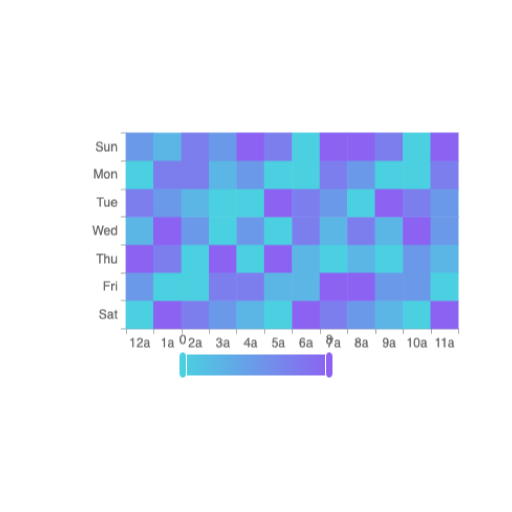
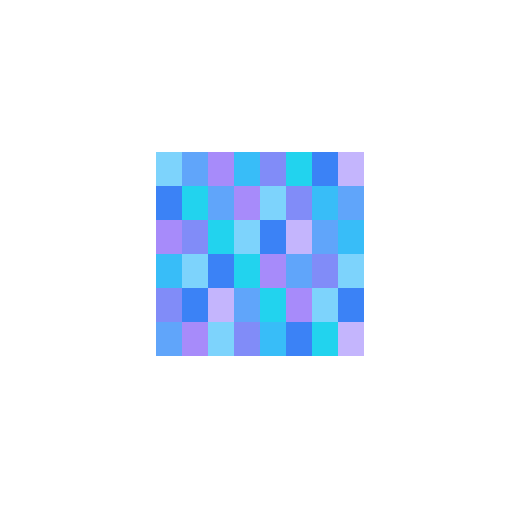
Made adjustments to heatmap.

Changed region(s): [[0.1562, 0.25, 0.9062, 0.75]]

diff --git a/components/chart/heatmap/heatmap-chart.tsx b/components/chart/heatmap/heatmap-chart.tsx
@@ -41,13 +41,8 @@ const ChartComponent = ({
   showLabel = false,
   showXAxis = true,
   showYAxis = true,
-  showLegend = true,
   showHighlighter = true,
   tooltip = 'card',
-  visualMapMin,
-  visualMapMax,
-  visualMapMode = 'continuous',
-  piecewisePieces,
   onSelect,
   renderTooltip,
   ...props
@@ -104,10 +99,10 @@ const ChartComponent = ({
   const valueRange = useMemo(() => {
     if (normalizedData.length === 0) return { min: 0, max: 10 };
     const values = normalizedData.map((d) => Number(d[2]));
-    const min = visualMapMin ?? Math.min(...values);
-    const max = visualMapMax ?? Math.max(...values);
+    const min = Math.min(...values);
+    const max = Math.max(...values);
     return { min: min === max ? min - 1 : min, max: min === max ? max + 1 : max };
-  }, [normalizedData, visualMapMin, visualMapMax]);
+  }, [normalizedData]);
 
   const option = useMemo(() => {
     const seriesColor = theme.series[0]?.color ?? '#3b82f6';
@@ -161,49 +156,11 @@ const ChartComponent = ({
       splitLine: { show: false },
     };
 
-    const visualMapConfig: any = showLegend
-      ? visualMapMode === 'piecewise' && piecewisePieces?.length
-        ? {
-            type: 'piecewise',
-            min: valueRange.min,
-            max: valueRange.max,
-            pieces: piecewisePieces.map((p) => ({
-              min: p.min,
-              max: p.max,
-              label: p.label,
-              color: p.color,
-            })),
-            textStyle: {
-              color: theme.legend.textColor,
-              fontSize: theme.legend.fontSize,
-            },
-            left: 'center',
-            bottom: 8,
-            orient: 'horizontal',
-          }
-        : {
-            type: 'continuous',
-            min: valueRange.min,
-            max: valueRange.max,
-            calculable: true,
-            orient: 'horizontal',
-            left: 'center',
-            bottom: 8,
-            inRange: {
-              color: [theme.series[1]?.color ?? '#93c5fd', seriesColor],
-            },
-            textStyle: {
-              color: theme.legend.textColor,
-              fontSize: theme.legend.fontSize,
-            },
-          }
-      : undefined;
-
     const grid = {
       top: '8%',
       left: '12%',
       right: '4%',
-      bottom: showLegend ? '18%' : '8%',
+      bottom: '8%',
       containLabel: true,
     };
 
@@ -232,7 +189,15 @@ const ChartComponent = ({
       yAxis: yAxisConfig,
       series: [seriesConfig],
     };
-    if (visualMapConfig) config.visualMap = visualMapConfig;
+    config.visualMap = {
+      type: 'continuous',
+      min: valueRange.min,
+      max: valueRange.max,
+      show: false,
+      inRange: {
+        color: [theme.series[1]?.color ?? '#93c5fd', seriesColor],
+      },
+    };
     return config;
   }, [
     xAxisData,
@@ -242,11 +207,8 @@ const ChartComponent = ({
     showLabel,
     showXAxis,
     showYAxis,
-    showLegend,
     showHighlighter,
     tooltipOverlayActive,
-    visualMapMode,
-    piecewisePieces,
     valueRange,
   ]);
 

diff --git a/stories/heatmap/heatmap.args.ts b/stories/heatmap/heatmap.args.ts
@@ -20,10 +20,6 @@ const heatmapOnlyArgTypes = {
     control: 'boolean',
     description: 'When true, shows the numeric value on each cell. Default: false',
   },
-  showLegend: {
-    control: 'boolean',
-    description: 'Whether to show the visual map (color scale). Default: true',
-  },
   showHighlighter: {
     control: 'boolean',
     description: 'Whether to emphasize the hovered cell. Default: true',
@@ -35,23 +31,6 @@ const heatmapOnlyArgTypes = {
   showYAxis: {
     control: 'boolean',
     description: 'Whether to show the Y-axis labels. Default: true',
-  },
-  visualMapMin: {
-    control: 'number',
-    description: 'Minimum value for the color scale. Auto-derived when omitted.',
-  },
-  visualMapMax: {
-    control: 'number',
-    description: 'Maximum value for the color scale. Auto-derived when omitted.',
-  },
-  visualMapMode: {
-    control: 'select',
-    options: ['continuous', 'piecewise'],
-    description: 'Color scale mode. Default: continuous',
-  },
-  piecewisePieces: {
-    control: 'object',
-    description: 'Bands when visualMapMode is piecewise: [{ min, max, label, color }].',
   },
   tooltip: {
     control: 'select',
@@ -97,30 +76,3 @@ export const heatmapBaseArgs = {
   yAxisData: heatmapDemoDays,
   data: buildHeatmapDemoData(),
 } as const;
-
-export const heatmapPiecewiseArgs = {
-  width: 420,
-  height: 280,
-  xAxisData: ['Low', 'Mid', 'High'],
-  yAxisData: ['A', 'B', 'C', 'D'],
-  data: [
-    [0, 0, 2],
-    [0, 1, 8],
-    [0, 2, 4],
-    [0, 3, 1],
-    [1, 0, 5],
-    [1, 1, 3],
-    [1, 2, 9],
-    [1, 3, 6],
-    [2, 0, 7],
-    [2, 1, 2],
-    [2, 2, 5],
-    [2, 3, 10],
-  ] as Array<[number, number, number]>,
-  visualMapMode: 'piecewise' as const,
-  piecewisePieces: [
-    { min: 0, max: 3, label: 'Low', color: '#dbeafe' },
-    { min: 3, max: 7, label: 'Mid', color: '#3b82f6' },
-    { min: 7, max: 10, label: 'High', color: '#1e3a8a' },
-  ],
-};

diff --git a/components/chart/heatmap/heatmap-chart.props.ts b/components/chart/heatmap/heatmap-chart.props.ts
@@ -17,7 +17,7 @@ export interface HeatmapChartSelectEvent {
 
 /**
  * Props for HeatmapChart.
- * common -> heatmap (matrix chart with category axes and visual map)
+ * common -> heatmap (matrix chart with category axes)
  */
 export interface HeatmapChartProps extends CommonChartProps {
   /** Category labels for the X axis (columns). */
@@ -28,25 +28,12 @@ export interface HeatmapChartProps extends CommonChartProps {
   data: HeatmapDataPoint[];
   /** When true, shows the numeric value on each cell. @default false */
   showLabel?: boolean;
-  /** Whether to show the color scale (visual map). @default true */
-  showLegend?: boolean;
   /** Whether to emphasize the hovered cell. @default true */
   showHighlighter?: boolean;
   /** Whether to show the X-axis line and category labels. @default true */
   showXAxis?: boolean;
   /** Whether to show the Y-axis line and category labels. @default true */
   showYAxis?: boolean;
-  /** Minimum value for the visual map scale. Auto-derived from data if not set. */
-  visualMapMin?: number;
-  /** Maximum value for the visual map scale. Auto-derived from data if not set. */
-  visualMapMax?: number;
-  /**
-   * Visual map mode: `continuous` (gradient) or `piecewise` (distinct bands).
-   * @default 'continuous'
-   */
-  visualMapMode?: 'continuous' | 'piecewise';
-  /** When `visualMapMode` is `piecewise`, define bands: `[{ min, max, label, color }]`. */
-  piecewisePieces?: Array<{ min: number; max: number; label: string; color: string }>;
   /**
    * Built-in cell tooltip preset when `renderTooltip` is omitted. Use `none` to hide the overlay.
    * @default 'card'

diff --git a/stories/heatmap/heatmap.stories.tsx b/stories/heatmap/heatmap.stories.tsx
@@ -5,14 +5,9 @@ import { heatmapBaseArgs } from './heatmap.args';
 export default { ...meta, title: 'Charts/Heatmap', tags: ['autodocs'] };
 type Story = StoryObj<typeof meta>;
 
-/** Default heatmap with continuous color scale. */
+/** Default heatmap with theme-based cell coloring. */
 export const Default: Story = {
   args: { ...heatmapBaseArgs },
-};
-
-/** showLegend={false} — hides the visual map (color scale). */
-export const NoLegend: Story = {
-  args: { ...heatmapBaseArgs, showLegend: false },
 };
 
 /** showHighlighter={false} — no cell emphasis on hover. */

diff --git a/stories/heatmap/tooltip/heatmap.tooltip.stories.tsx b/stories/heatmap/tooltip/heatmap.tooltip.stories.tsx
@@ -17,7 +17,7 @@ const styles = StyleSheet.create({
   },
 });
 
-const baseArgs = { ...heatmapBaseArgs, showLegend: true };
+const baseArgs = { ...heatmapBaseArgs };
 
 export const Default: Story = {
   render: (args) => (

diff --git a/README.md b/README.md
@@ -182,6 +182,30 @@ Preview thumbnails for the chart examples in `assets/images/charts`. Each image 
   </tbody>
 </table>
 
+### Heatmap
+
+<table>
+  <tbody>
+    <tr>
+      <td align="center">
+        <a href="https://wavemaker.github.io/wm-react-native-echarts/?path=/story/charts-heatmap--default" target="_blank">
+          <img src="assets/images/charts/heatmap/default.png" width="200" height="200" alt="Heatmap default" style="object-fit: contain;" /><br /><sub>default</sub>
+        </a>
+      </td>
+      <td align="center">
+        <a href="https://wavemaker.github.io/wm-react-native-echarts/?path=/story/charts-heatmap-labels--with-cell-labels" target="_blank">
+          <img src="assets/images/charts/heatmap/with-cell-labels.png" width="200" height="200" alt="Heatmap with cell labels" style="object-fit: contain;" /><br /><sub>with-cell-labels</sub>
+        </a>
+      </td>
+      <td align="center">
+        <a href="https://wavemaker.github.io/wm-react-native-echarts/?path=/story/charts-heatmap-colors--custom-colors" target="_blank">
+          <img src="assets/images/charts/heatmap/custom-colors.png" width="200" height="200" alt="Heatmap custom colors" style="object-fit: contain;" /><br /><sub>custom-colors</sub>
+        </a>
+      </td>
+    </tr>
+  </tbody>
+</table>
+
 ### Gauge
 
 <table>

diff --git a/spec/03-chart-components.md b/spec/03-chart-components.md
@@ -84,12 +84,12 @@ Each registers gauge-related ECharts modules independently.
 Matrix chart on **two category axes** (not `CartesianChartProps`). Extends `CommonChartProps` only.
 
 - **Data**: `xAxisData: string[]`, `yAxisData: string[]`, `data: [xIndex, yIndex, value][]`.
-- **Color scale**: `showLegend` toggles the ECharts visual map; `visualMapMin` / `visualMapMax`, `visualMapMode` (`continuous` \| `piecewise`), `piecewisePieces`.
+- **Coloring**: cell colors use a hidden ECharts visual map (min/max auto-derived from data; gradient from `colors` / theme `series`).
 - **Display**: `showLabel` (cell values), `showHighlighter`, `showXAxis`, `showYAxis`.
 - **Tooltips**: `useHeatmapItemTooltip`, `createHeatmapTooltipPreset` — item tooltips with row/column labels.
 - **Selection**: `onSelect` → `HeatmapChartSelectEvent` (`xIndex`, `yIndex`, `xLabel`, `yLabel`, `value`).
 - **ECharts modules**: `HeatmapChart`, `VisualMapComponent`, `GridComponent`, `TooltipComponent`, `SkiaRenderer`.
-- **Storybook**: `stories/heatmap/` — base stories plus `labels/`, `visual-map/`, `axes/`, `colors/`, `dimensions/`, `tooltip/`, `interaction/`.
+- **Storybook**: `stories/heatmap/` — base stories plus `labels/`, `axes/`, `colors/`, `dimensions/`, `tooltip/`, `interaction/`.
 - **Expo**: `expo-app/app/heatmap-chart.tsx`.
 
 ## WMX mirror (`wmx/chart/`)